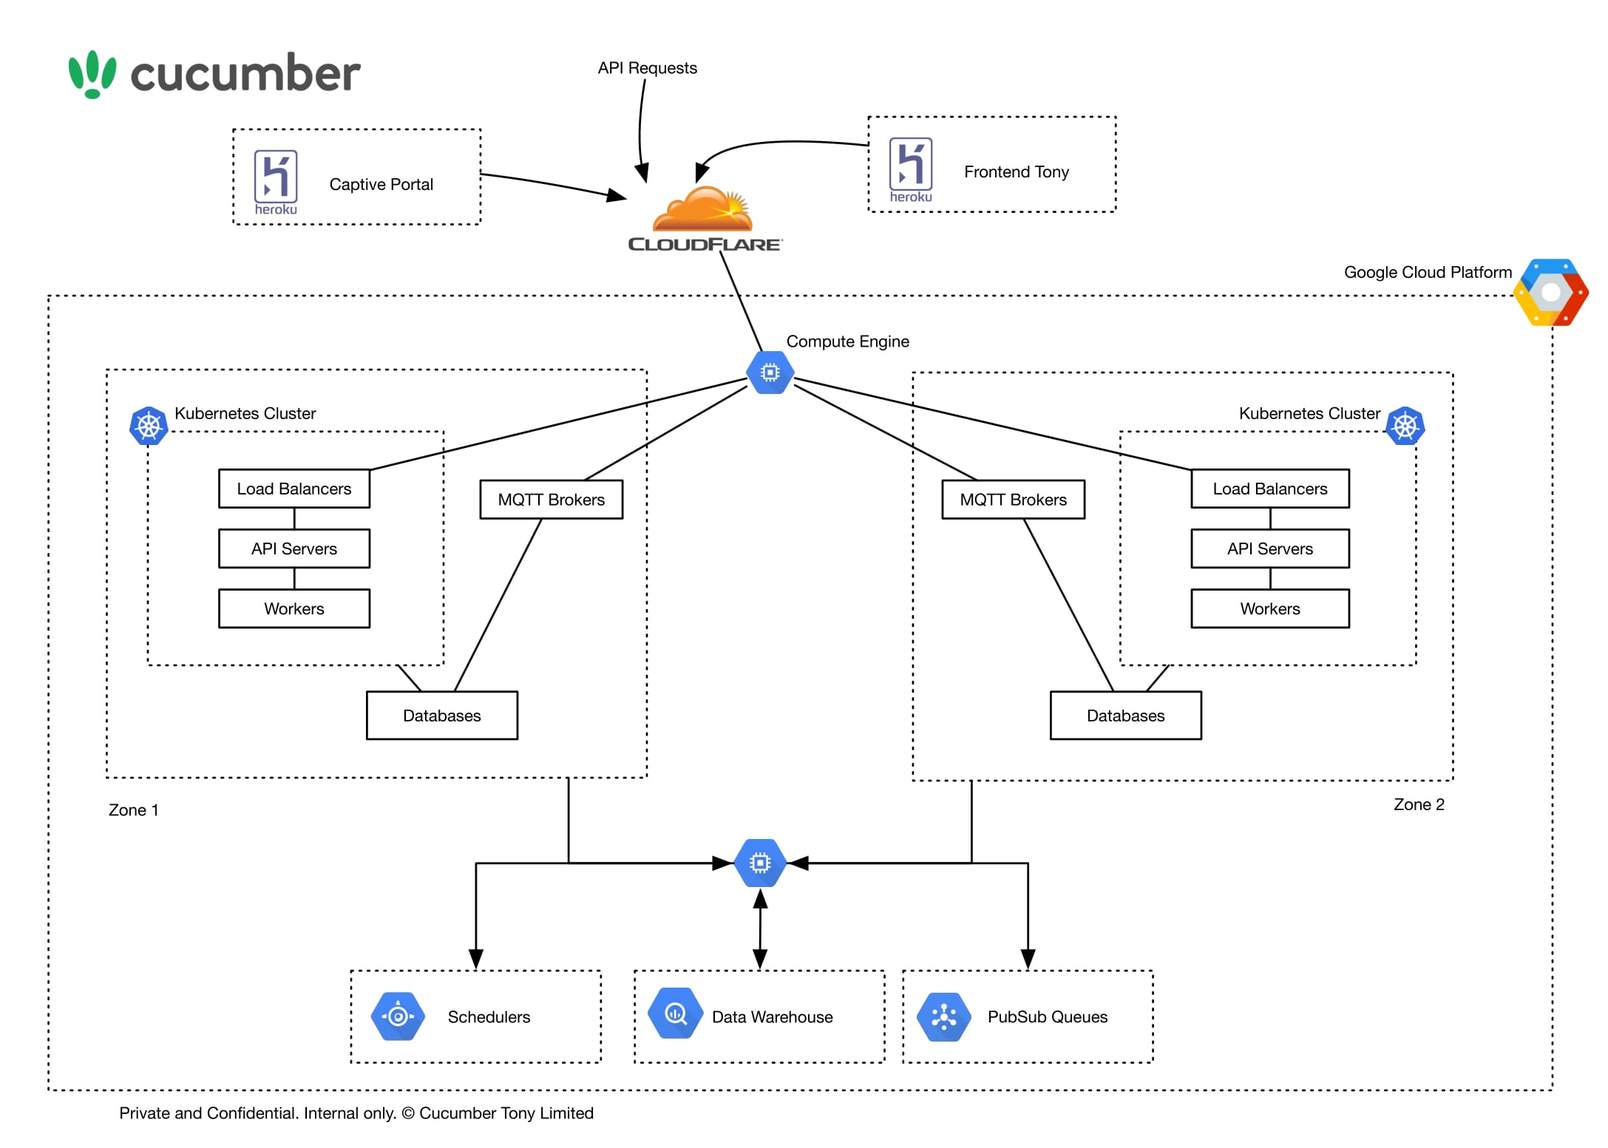
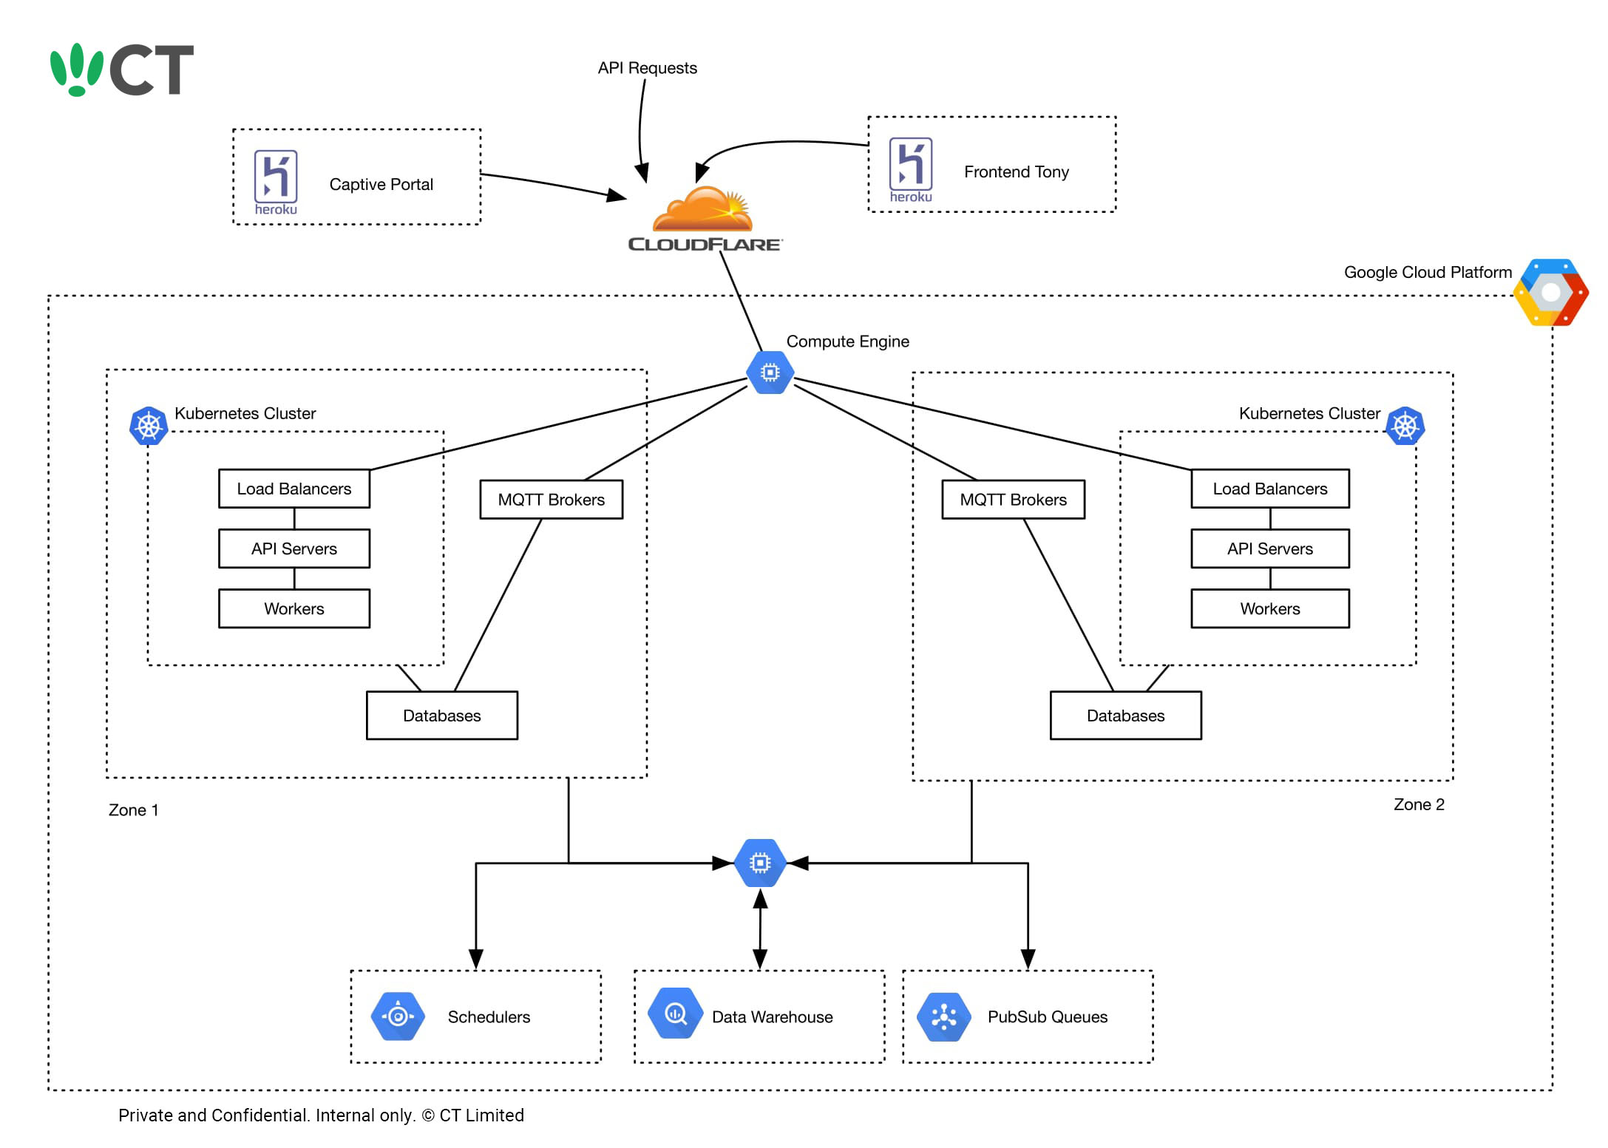
alt tags and co

Changed region(s): [[0.0308, 0.0309, 0.2156, 0.0927], [0.0616, 0.9581, 0.3697, 0.9891]]

diff --git a/terms/index.html b/terms/index.html
@@ -8,7 +8,7 @@ permalink: /terms/
     <div class="large-12 columns">
       <h2>Terms</h2>
       <h4>Effective: January 10, 2016</h4>
-      <p>Before you register with CT WiFi, you must read and agree to this Terms of Service ("TOS"). By using the CT WiFi services (the "Service"), you agree to be bound by the TOS and you agree that it is enforceable as if it were a written negotiated agreement signed by CT WiFi ("CT WiFi") and you.</p>
+      <p>Before you register with CT WiFi, you must read and agree to this Terms of Service ("TOS"). By using the CT WiFi services (the "Service"), you agree to be bound by the TOS and you agree that it is enforceable as if it were a written negotiated agreement signed by CT WiFi and you.</p>
       <p>This TOS, is an agreement you must accept in order to use CT WiFi's Service (as defined below). It is applicable to (a) "Owners" -- this includes Primary Owners who initially set up the Service and other Owners that are granted ownership privileges by the Primary Owner; (b) Administrators – those who manage and run a team, channel, or group ("Administrators") (Owners and Administrators, collectively "Administrative Users"), and to c) Members – users who are invited to join an existing team that has already been created in the Service by an Administrator ("Members”). The terms "you" and "users" encompass all users, including both Administrative Users and Members. This document describes both your rights and your obligations as part of using the Service. It is important that you read it carefully because you will be legally bound to these terms. CT WiFi only provides its Service (as defined below) to you subject to this TOS. By accepting this TOS or by accessing or using the Service, you agree to be bound by this TOS (including the Privacy Policy, which is incorporated here by reference).</p>
       <p>If you are entering into this TOS on behalf of a company or other legal entity, you represent that you have the authority to bind such entity, its Members, its Administrative Users, and its affiliates to this TOS. In that case, the terms "you" or "your" shall also refer to such entity, its Members, its Administrative Users, and its affiliates, as applicable. If you do not have such authority, or if you do not agree with this TOS, you may not use the Service. You acknowledge that this TOS is a contract between you and CT WiFi, even though it is electronic and is not physically signed by you and CT WiFi, and it governs your use of the Service.</p>
       <p>CT WiFi is designed for you to have one account to manage your network. You must not abuse the TOS by creating multiple accounts. If you or your administrators are creating multiple accounts, you will be violating the TOS and your account may be disabled. Upon signing up for a Free plan, your splash view limit will be restricted to 50. We will enable the splash views on your account once you have verified your business.</p>

diff --git a/features/manufacturers.html b/features/manufacturers.html
@@ -38,13 +38,13 @@ $(document).ready(function(){
       <p>Customise everything for your customers and integrate with your existing systems. Offer cloud-managed WiFi as a value added service.</p>
     </div>
     <div class="large-5 medium-5 hide-for-small-only columns text-center">
-      <img src="/images/pages/branding.svg"></a>
+      <img src="/images/pages/branding.svg" alt="fully white label dashboard"></img>
     </div>
   </div>
 
   <div class="row banner align-middle features-banner">
     <div class="large-5 medium-5 hide-for-small-only columns text-center">
-      <img src="/images/pages/engineer.svg"></a>
+      <img src="/images/pages/engineer.svg" alt="ct network support"></img>
     </div>
     <div class="large-7 medium-7 small-12 columns text-center medium-text-left">
       <h3>Peace of Mind</h3>
@@ -58,7 +58,7 @@ $(document).ready(function(){
       <p>Automated, over-the-air-upgrades for all your WiFi devices. Centralised firmware management portal with built-in failure detection prevents nasty surprises.</p>
     </div>
     <div class="large-5 medium-5 hide-for-small-only columns text-center">
-      <img src="/images/pages/firmware.svg"></a>
+      <img src="/images/pages/firmware.svg" alt="enterprise grade features on commodity hardware"></img>
     </div>
   </div>
 
@@ -98,17 +98,17 @@ $(document).ready(function(){
       <div class="row">
         <div class="large-4 columns text-center">
           <a href="http://www.techstars.com/" target="_blank">
-            <img src="/images/pages/techstars/techstars-horizontal.png">
+            <img src="/images/pages/techstars/techstars-horizontal.png" alt="ct networks techstars"></img>
           </a>
         </div>
         <div class="large-4 columns text-center">
           <a href="http://capitalenterprise.org/" target="_blank">
-            <img src="/images/pages/capital-enterprise.png">
+            <img src="/images/pages/capital-enterprise.png" alt="ct networks capital enterprise"></img>
           </a>
         </div>
         <div class="large-4 columns text-center">
           <a href="/techweeknyc16/" target="_blank">
-            <img src="/images/pages/techweek-winner.jpg">
+            <img src="/images/pages/techweek-winner.jpg" alt="ct networks techweek winner"></img>
           </a>
         </div>
       </div>

diff --git a/_includes/footer.html b/_includes/footer.html
@@ -44,7 +44,6 @@
             <li><a href="/videos/">Out & About</a></li>
             <li><a href="/architecture/">Architecture</a></li>
             <li><a href="/philosophy/">Philosophy</a></li>
-            <!-- <li><a href="/branding/">Branding</a></li> -->
           </ul>
         </div>
         <div class="large-3 medium-3 small-12 columns cucumber-footer-address">
@@ -119,7 +118,6 @@
                   <li><a href="/videos/">Out & About</a></li>
                   <li><a href="/architecture/">Architecture</a></li>
                   <li><a href="/philosophy/">Philosophy</a></li>
-                  <!-- <li><a href="/branding/">Branding</a></li> -->
                 </ul>
               </div>
             </li>
@@ -137,21 +135,20 @@
           <div class="small-12 columns align-self-middle">
             <div class="social-button-row center-cell">
               <a href="https://twitter.com/cucumbertony" target="_blank" class="social-button">
-                <img src="/images/pages/social/twitter.png">
+                <img src="/images/pages/social/twitter.png" alt="ct networks twitter button">
               </a>
-              <a href="https://www.linkedin.com/company/cucumber-tony" target="_blank" class="social-button">
-                <img src="/images/pages/social/linkedin.png">
+              <a href="https://www.linkedin.com/company/10045423/" target="_blank" class="social-button">
+                <img src="/images/pages/social/linkedin.png" alt="ct networks linkedin button">
               </a>
               <a href="https://www.youtube.com/channel/UCpPkREGXYrlontKXB3B3t9A" target="_blank" class="social-button">
-                <img src="/images/pages/social/youtube.png">
+                <img src="/images/pages/social/youtube.png" alt="ct networks youtube button">
               </a>
               <a href="http://www.techstars.com/" target="_blank">
-                <img style="max-height:50px;width:auto;" src="/images/pages/techstars/techstars-square.png">
+                <img style="max-height:50px;width:auto;" src="/images/pages/techstars/techstars-square.png" alt="ct networks techstars 2017">
               </a>
             </div>
           </div>
           <div class="small-12 columns align-self-middle">
-
           </div>
 
         </div>

diff --git a/features/schools.html b/features/schools.html
@@ -37,13 +37,13 @@ $(document).ready(function(){
       <p>Set limits and restrictions on your networks. Control which devices can and can't access them with whitelists & blacklists.</p>
     </div>
     <div class="large-5 medium-5 hide-for-small-only columns text-center">
-      <img src="/images/pages/policygroup.svg"></a>
+      <img src="/images/pages/policygroup.svg" alt="restricting student wifi access"></img>
     </div>
   </div>
 
   <div class="row banner align-middle features-banner">
     <div class="large-5 medium-5 hide-for-small-only columns text-center">
-      <img src="/images/pages/simple.svg"></a>
+      <img src="/images/pages/simple.svg" alt="staying legally compliant"></a>
     </div>
     <div class="large-7 medium-7 small-12 columns text-center medium-text-left">
       <h3>Collect Data & Analytics</h3>
@@ -85,20 +85,19 @@ $(document).ready(function(){
   <div class="row align-center banner">
     <div class="large-12 columns">
       <div class="row">
-        <div class="large-4 columns text-center">
-          <a href="http://www.techstars.com/" target="_blank">
-            <img src="/images/pages/techstars/techstars-horizontal.png">
-          </a>
-        </div>
-        <div class="large-4 columns text-center">
-          <a href="http://capitalenterprise.org/" target="_blank">
-            <img src="/images/pages/capital-enterprise.png">
-          </a>
-        </div>
-        <div class="large-4 columns text-center">
-          <a href="/techweeknyc16/" target="_blank">
-            <img src="/images/pages/techweek-winner.jpg">
-          </a>
+        <a href="http://www.techstars.com/" target="_blank">
+          <img src="/images/pages/techstars/techstars-horizontal.png" alt="ct networks techstars"></img>
+        </a>
+      </div>
+      <div class="large-4 columns text-center">
+        <a href="http://capitalenterprise.org/" target="_blank">
+          <img src="/images/pages/capital-enterprise.png" alt="ct networks capital enterprise"></img>
+        </a>
+      </div>
+      <div class="large-4 columns text-center">
+        <a href="/techweeknyc16/" target="_blank">
+          <img src="/images/pages/techweek-winner.jpg" alt="ct networks techweek winner"></img>
+        </a>
         </div>
       </div>
     </div>

diff --git a/features/resellers.html b/features/resellers.html
@@ -36,12 +36,12 @@ $(document).ready(function(){
       <p>Pay only $1.00 per month* per AP on the reseller plan! There's a one-off charge of $500 to access the platform and reseller features.</p>
     </div>
     <div class="large-5 medium-5 hide-for-small-only columns text-center">
-      <img src="/images/pages/reseller.svg"></a>
+      <img src="/images/pages/reseller.svg" alt="dedicated reseller plan"></img>
     </div>
   </div>
   <div class="row banner align-middle features-banner">
     <div class="large-5 medium-5 hide-for-small-only columns text-center">
-      <img src="/images/pages/branding.svg"></a>
+      <img src="/images/pages/branding.svg" alt="fully whitelabel dashboard to share"></img>
     </div>
     <div class="large-7 medium-7 small-12 columns text-center medium-text-left">
       <h3>Fully White-Label</h3>
@@ -54,7 +54,7 @@ $(document).ready(function(){
       <p>Get the most useful features possible out of your hardware. Don't settle for vendor limitations.</p>
     </div>
     <div class="large-5 medium-5 hide-for-small-only columns text-center">
-      <img src="/images/pages/commodity.svg"></a>
+      <img src="/images/pages/commodity.svg" alt="compatible with thousands of devices"></img>
     </div>
   </div>
 
@@ -97,17 +97,17 @@ $(document).ready(function(){
       <div class="row">
         <div class="large-4 columns text-center">
           <a href="http://www.techstars.com/" target="_blank">
-            <img src="/images/pages/techstars/techstars-horizontal.png">
+            <img src="/images/pages/techstars/techstars-horizontal.png" alt="ct networks techstars"></img>
           </a>
         </div>
         <div class="large-4 columns text-center">
           <a href="http://capitalenterprise.org/" target="_blank">
-            <img src="/images/pages/capital-enterprise.png">
+            <img src="/images/pages/capital-enterprise.png" alt="ct networks capital enterprise"></img>
           </a>
         </div>
         <div class="large-4 columns text-center">
           <a href="/techweeknyc16/" target="_blank">
-            <img src="/images/pages/techweek-winner.jpg">
+            <img src="/images/pages/techweek-winner.jpg" alt="ct networks techweek winner"></img>
           </a>
         </div>
       </div>

diff --git a/index.html b/index.html
@@ -16,7 +16,7 @@ redirect_from:
         <a href="/sign-up" class="button s-u-i">Sign Up</a>
       </div>
       <div class="large-7 show-for-large columns text-center">
-        <img src="/images/pages/dashboard-page.png"></img>
+        <img src="/images/pages/dashboard-page.png" alt="WiFi management dashboard"></img>
       </div>
     </div>
   </div>
@@ -27,7 +27,7 @@ redirect_from:
     </div>
     <div class="large-12 medium-12 columns small-12 text-center">
       <div>
-        <img src="/images/pages/customers.png">
+        <img src="/images/pages/customers.png" alt="ct networks customers">
       </div>
       <a href="/casestudies/">See case studies</a>
     </div>
@@ -50,7 +50,7 @@ redirect_from:
       <p>CT WiFi works on over 1,200 devices, including OpenWRT and LEDE.</p>
     </div>
     <div class="large-7 show-for-large columns text-center">
-      <img src="/images/pages/dashboard.png"></img>
+      <img src="/images/pages/dashboard.png" alt="device management and splash pages"></img>
     </div>
   </div>
 
@@ -89,17 +89,17 @@ redirect_from:
       <div class="row">
         <div class="large-4 columns text-center">
           <a href="http://www.techstars.com/" target="_blank">
-            <img src="/images/pages/techstars/techstars-horizontal.png">
+            <img src="/images/pages/techstars/techstars-horizontal.png" alt="ct networks techstars"></img>
           </a>
         </div>
         <div class="large-4 columns text-center">
           <a href="http://capitalenterprise.org/" target="_blank">
-            <img src="/images/pages/capital-enterprise.png">
+            <img src="/images/pages/capital-enterprise.png" alt="ct networks capital enterprise"></img>
           </a>
         </div>
         <div class="large-4 columns text-center">
           <a href="/techweeknyc16/" target="_blank">
-            <img src="/images/pages/techweek-winner.jpg">
+            <img src="/images/pages/techweek-winner.jpg" alt="ct networks techweek winner"></img>
           </a>
         </div>
       </div>

diff --git a/features/retail.html b/features/retail.html
@@ -36,12 +36,12 @@ $(document).ready(function(){
       <p>Welcome your guests or friends with a mobile-friendly, attractive splash page! Sign in with social logins, vouchers, or one of many other access types.</p>
     </div>
     <div class="large-5 medium-5 hide-for-small-only columns text-center">
-      <img src="/images/pages/splash.svg"></a>
+      <img src="/images/pages/splash.svg" alt="beautiful splash pages for your public wifi"></img>
     </div>
   </div>
   <div class="row banner align-middle features-banner">
     <div class="large-5 medium-5 hide-for-small-only columns text-center">
-      <img src="/images/pages/monetise.svg"></a>
+      <img src="/images/pages/monetise.svg" alt="sell public wifi access"></img>
     </div>
     <div class="large-7 medium-7 small-12 columns text-center medium-text-left">
       <h3>Monetise Your WiFi</h3>
@@ -85,17 +85,17 @@ $(document).ready(function(){
       <div class="row">
         <div class="large-4 columns text-center">
           <a href="http://www.techstars.com/" target="_blank">
-            <img src="/images/pages/techstars/techstars-horizontal.png">
+            <img src="/images/pages/techstars/techstars-horizontal.png" alt="ct networks techstars"></img>
           </a>
         </div>
         <div class="large-4 columns text-center">
           <a href="http://capitalenterprise.org/" target="_blank">
-            <img src="/images/pages/capital-enterprise.png">
+            <img src="/images/pages/capital-enterprise.png" alt="ct networks capital enterprise"></img>
           </a>
         </div>
         <div class="large-4 columns text-center">
           <a href="/techweeknyc16/" target="_blank">
-            <img src="/images/pages/techweek-winner.jpg">
+            <img src="/images/pages/techweek-winner.jpg" alt="ct networks techweek winner"></img>
           </a>
         </div>
       </div>

diff --git a/features/offices.html b/features/offices.html
@@ -36,12 +36,12 @@ $(document).ready(function(){
       <p>Set limits and restrictions on your networks. Control which devices can and can't access them with whitelists & blacklists.</p>
     </div>
     <div class="large-5 medium-5 hide-for-small-only columns text-center">
-      <img src="/images/pages/policygroup.svg"></a>
+      <img src="/images/pages/policygroup.svg" alt="control who can access your networks"></img>
     </div>
   </div>
   <div class="row banner align-middle features-banner">
     <div class="large-5 medium-5 hide-for-small-only columns text-center">
-      <img src="/images/pages/admins.svg"></a>
+      <img src="/images/pages/admins.svg" alt="give levels of access to your admins"></img>
     </div>
     <div class="large-7 medium-7 small-12 columns text-center medium-text-left">
       <h3>Admins & Guest Users</h3>
@@ -85,17 +85,17 @@ $(document).ready(function(){
       <div class="row">
         <div class="large-4 columns text-center">
           <a href="http://www.techstars.com/" target="_blank">
-            <img src="/images/pages/techstars/techstars-horizontal.png">
+            <img src="/images/pages/techstars/techstars-horizontal.png" alt="ct networks techstars"></img>
           </a>
         </div>
         <div class="large-4 columns text-center">
           <a href="http://capitalenterprise.org/" target="_blank">
-            <img src="/images/pages/capital-enterprise.png">
+            <img src="/images/pages/capital-enterprise.png" alt="ct networks capital enterprise"></img>
           </a>
         </div>
         <div class="large-4 columns text-center">
           <a href="/techweeknyc16/" target="_blank">
-            <img src="/images/pages/techweek-winner.jpg">
+            <img src="/images/pages/techweek-winner.jpg" alt="ct networks techweek winner"></img>
           </a>
         </div>
       </div>

diff --git a/features/home.html b/features/home.html
@@ -36,12 +36,12 @@ $(document).ready(function(){
       <p>CT WiFi provides a simple, intuitive, multi-vendor solution to remotely monitor your networks. It's free for small businesses too!</p>
     </div>
     <div class="large-5 medium-5 hide-for-small-only columns text-center">
-      <img src="/images/pages/simple.svg"></a>
+      <img src="/images/pages/simple.svg" alt="simple network management"></img>
     </div>
   </div>
   <div class="row banner align-middle features-banner">
     <div class="large-5 medium-5 hide-for-small-only columns text-center">
-      <img src="/images/pages/engineer.svg"></a>
+      <img src="/images/pages/engineer.svg" alt="ct networks engineer support"></img>
     </div>
     <div class="large-7 medium-7 small-12 columns text-center medium-text-left">
       <h3>Troubleshooting & Support</h3>
@@ -85,17 +85,17 @@ $(document).ready(function(){
       <div class="row">
         <div class="large-4 columns text-center">
           <a href="http://www.techstars.com/" target="_blank">
-            <img src="/images/pages/techstars/techstars-horizontal.png">
+            <img src="/images/pages/techstars/techstars-horizontal.png" alt="ct networks techstars"></img>
           </a>
         </div>
         <div class="large-4 columns text-center">
           <a href="http://capitalenterprise.org/" target="_blank">
-            <img src="/images/pages/capital-enterprise.png">
+            <img src="/images/pages/capital-enterprise.png" alt="ct networks capital enterprise"></img>
           </a>
         </div>
         <div class="large-4 columns text-center">
           <a href="/techweeknyc16/" target="_blank">
-            <img src="/images/pages/techweek-winner.jpg">
+            <img src="/images/pages/techweek-winner.jpg" alt="ct networks techweek winner"></img>
           </a>
         </div>
       </div>

diff --git a/_layouts/fixed-header.html b/_layouts/fixed-header.html
@@ -49,7 +49,7 @@ layout: default
               <li><a href="https://blog.ct-networks.io" target="_blank">Blog <i class="material-icons">launch</i></a></li>
               <li><a id="about-us" href="/about/">About Us</a></li>
               <li><a id="contact-us" href="/contact/">Contact Us</a></li>
-              <!-- <li><a id="branding" href="/branding/">Branding</a></li> -->
+              <li><a id="videos" href="/videos/">Out & About</a></li>
             </ul>
           </li>
           <li>
@@ -122,7 +122,6 @@ layout: default
           <li><a id="contact-us-mob" href="/contact/">Contact Us</a></li>
           <li><a id="architecture-mob" href="/architecture/">Architecture</a></li>
           <li><a id="philosophy-mob" href="/philosophy/">Philosophy</a></li>
-          <!-- <li><a id="branding-mob" href="/branding/">Branding</a></li> -->
           <li><a id="videos-mob" href="/videos/">Out & About</a></li>
         </ul>
       </div>

diff --git a/contact/thanks.html b/contact/thanks.html
@@ -10,7 +10,9 @@ function gifbg() {
    var images = ['type.gif'];
    document.getElementById('banner').setAttribute("style", "background: linear-gradient(rgba(0, 0, 0, 0.30),rgba(0, 0, 0, 0.30)), url(" + dir + images[randomCount] + ");background-repeat: no-repeat;background-repeat: no-repeat;background-position: center;background-size: cover;");
 }
-window.onload = gifbg;
+$(document).ready(function(){
+    gifbg();
+});
 </script>
 
 <div class="page-content">
@@ -19,7 +21,7 @@ window.onload = gifbg;
     <div class="missing-page-text large-6 columns text-center">
       <span style="position:relative;top:50%;transform:translateY(-50%);">
         <h1 style="color:white;">Thanks for getting in touch!</h1>
-        <p>We'll get back to you within 2 business days.</p>
+        <p>We'll get back to you as soon as we can.</p>
         <p><a href="/" style="color:white;text-decoration:underline;">Return home</a>
       </span>
     </div>

diff --git a/404.html b/404.html
@@ -21,7 +21,7 @@ $(document).ready(function(){
   <div id="banner" class="missing-page mdl-grid">
     <div class="missing-page-text mdl-card-wide center-cell mdl-card mdl-cell--6-col mdl-cell--middle mdl-typography--text-center" style="border-style:none;">
       <span style="position:relative;top:50%;transform:translateY(-50%);">
-        <h1>Well this is awkward...</h1>
+        <h1 style="color:white;">Well this is awkward...</h1>
         <p>Looks like we can't find the page you're looking for.</p>
         <p>Head home and start again, or follow one of the links at the top of the page.</p>
       </span>
